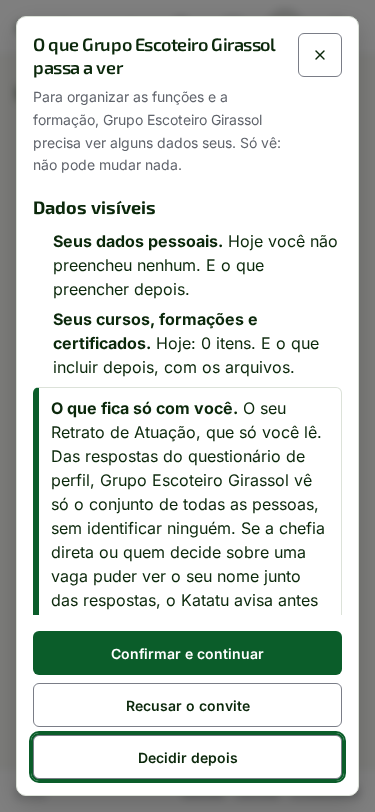
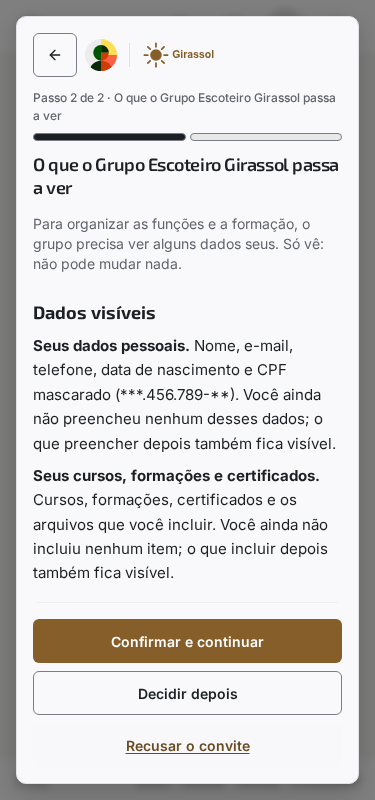
docs(manual): recaptura o questionário de perfil e o aviso do vínculo (1.5.0)
- Aviso do vínculo (passo 2 de 2): capturas com as opções atuais. A legenda deixa de citar o Saiba mais, que não aparece na janela.
- Questionário de perfil: as etapas agora mostram o tempo de cada uma. Trajetória e perguntas foram recapturadas, e a pergunta mostrada é a 1 de 8.
- Início do questionário: duas capturas novas, em computador e em celular (375px), com o tempo total e o de cada etapa.

Texto corrido não foi alterado. Divergências entre o texto e a tela estão no relatório da recaptura.

Changed region(s): [[0.0587, 0.0312, 0.9387, 0.9688]]

diff --git a/docs/primeiros-passos.md b/docs/primeiros-passos.md
@@ -104,7 +104,7 @@ As opções da janela:
 **Quando dá errado:** se a janela não mostrar a lista e aparecer "Não foi possível mostrar o aviso agora", feche a janela e tente de novo mais tarde. Não aceite às cegas.
 
 ![Janela O que Grupo Escoteiro Girassol passa a ver, no celular (375px), com as opções Decidir depois, Recusar o convite e Confirmar e continuar](../assets/capturas/manual-10-primeiros-passos-aviso-vinculo-375.png)
-![Janela O que Grupo Escoteiro Girassol passa a ver, no computador, com os dados visíveis, Saiba mais e as três opções](../assets/capturas/manual-10-primeiros-passos-aviso-vinculo-desktop.png)
+![Janela O que Grupo Escoteiro Girassol passa a ver, no computador, com os dados visíveis e as opções Recusar o convite, Decidir depois e Confirmar e continuar](../assets/capturas/manual-10-primeiros-passos-aviso-vinculo-desktop.png)
 
 ![Lista Estes são os convites que esperam por esta conta, no computador](../assets/capturas/manual-10-primeiros-passos-convite-lista-desktop.png)
 ![Lista Estes são os convites que esperam por esta conta, no celular (375px)](../assets/capturas/manual-10-primeiros-passos-convite-lista-375.png)
@@ -131,6 +131,9 @@ Você também pode abrir **Meu questionário de perfil** pelo menu. No computado
 **Por que isto importa:** o questionário é o que a organização conhece de você além do nome. Você pode parar a qualquer momento e voltar depois: o que já respondeu fica salvo. Responder com sinceridade é o que deixa o retrato útil para você e para quem decide.
 
 O questionário tem três partes: a **trajetória**, as **perguntas** e a **revisão**.
+
+![Início do questionário de perfil, no computador, com o tempo total (cerca de 20 min), as três etapas e o tempo de cada uma](../assets/capturas/manual-10-primeiros-passos-questionario-inicio-desktop.png)
+![Início do questionário de perfil, no celular (375px), com o tempo total e as etapas Trajetória, Perguntas e Situações](../assets/capturas/manual-10-primeiros-passos-questionario-inicio-375.png)
 
 ### Antes de começar
 
@@ -162,8 +165,8 @@ Depois toque em **Ler o texto** e confirme os itens reconhecidos. Se nada for re
 
 **Exemplo.** Ana escreve duas linhas: "Formação: Licenciatura em Pedagogia — USP (2015)" e "Curso: Mediação de conflitos — Escola X". Toca em **Ler o texto**, confirma a formação e descarta o curso, porque ele já está no certificado que ela tem. A trajetória fica só com o que ela confirmou.
 
-![Campo da trajetória com a formação confirmada, o curso descartado e a experiência ainda a confirmar, no computador](../assets/capturas/manual-10-primeiros-passos-trajetoria-desktop.png)
-![Campo da trajetória no celular (375px)](../assets/capturas/manual-10-primeiros-passos-trajetoria-375.png)
+![Etapa Trajetória, no computador, com o passo 1 de 3, o tempo de cerca de 8 min e o início do campo Sua trajetória](../assets/capturas/manual-10-primeiros-passos-trajetoria-desktop.png)
+![Etapa Trajetória, no celular (375px), com o passo 1 de 3 e o tempo de cerca de 8 min](../assets/capturas/manual-10-primeiros-passos-trajetoria-375.png)
 
 **Dica:** o currículo do Lattes ou do LinkedIn não é lido a partir do endereço da página. Abra o currículo no navegador, use **Imprimir › Salvar como PDF** e envie o arquivo.
 
@@ -185,8 +188,8 @@ As perguntas são cartões, um de cada vez. Cada cartão tem o contador "Pergunt
 
 Antes da pergunta de interesses, o questionário mostra o aviso **Antes de continuar**, explicando quem vê os seus interesses e as suas escolhas nas situações. Toque em **Entendi, continuar** para seguir.
 
-![Pergunta 8 de 8, Pedido urgente fora da rotina, com uma opção escolhida, no computador](../assets/capturas/manual-10-primeiros-passos-perguntas-desktop.png)
-![Pergunta 8 de 8 no celular (375px)](../assets/capturas/manual-10-primeiros-passos-perguntas-375.png)
+![Etapa Perguntas, no computador, com a Pergunta 1 de 8, Horas por semana, o campo vazio e o botão Confirmar e seguir](../assets/capturas/manual-10-primeiros-passos-perguntas-desktop.png)
+![Etapa Perguntas, no celular (375px), com a Pergunta 1 de 8 e o passo 2 de 3](../assets/capturas/manual-10-primeiros-passos-perguntas-375.png)
 
 **Dica:** responda as situações como você age, não como acha que deveria agir. A resposta sincera é a única que ajuda a organização a encaixar você.
 
